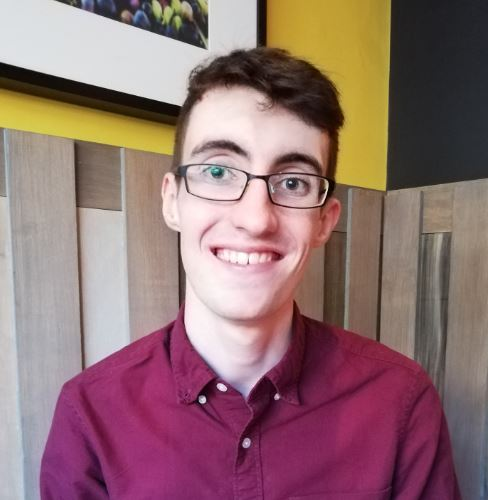
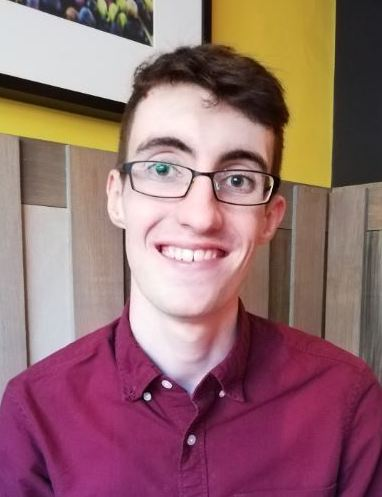
committee page

diff --git a/shefesh-site/_sass/committee.scss b/shefesh-site/_sass/committee.scss
@@ -1,24 +1,33 @@
 $backgroundColorLight: #33354b;
 
 #profiles {
-    display: inline;
+    display: flex;
+    flex-wrap: wrap;
+    justify-content: center;
 }
 
 .committee-profile {
     width: 25%;
+    min-width: 370px;
     background-color: $backgroundColorLight;
     display: flex;
-    margin: 4% 6%;
+    margin: 2% 3%;
+    padding: 0.1em;
 }
 
 .committee-profile .text {
-    margin: 3%;
+    margin: 0.5em;
+    min-width: 100px;
+    
 }
 
 .committee-profile img {
-    width: 55%;
-    height: 60%;
-    margin: 4%;
+    min-width: 200px;
+    max-width: 300px;
+    min-height: 100px;
+    max-height: 250px;
+    border-radius: 2px;
+    margin:0.7em 0.3em;
 }
 
 main h3.title-center {

diff --git a/shefesh-site/_sass/main.scss b/shefesh-site/_sass/main.scss
@@ -26,7 +26,6 @@ body {
   padding: 0;
   margin: 0;
   border: 0;
-  border-radius: 5px;
 }
 
 .banner h1 {
@@ -53,8 +52,6 @@ body {
   padding: 0;
   margin: 0;
   border: 0;
-  border-radius: 5px;
-
 }
 
 .nav ul {
